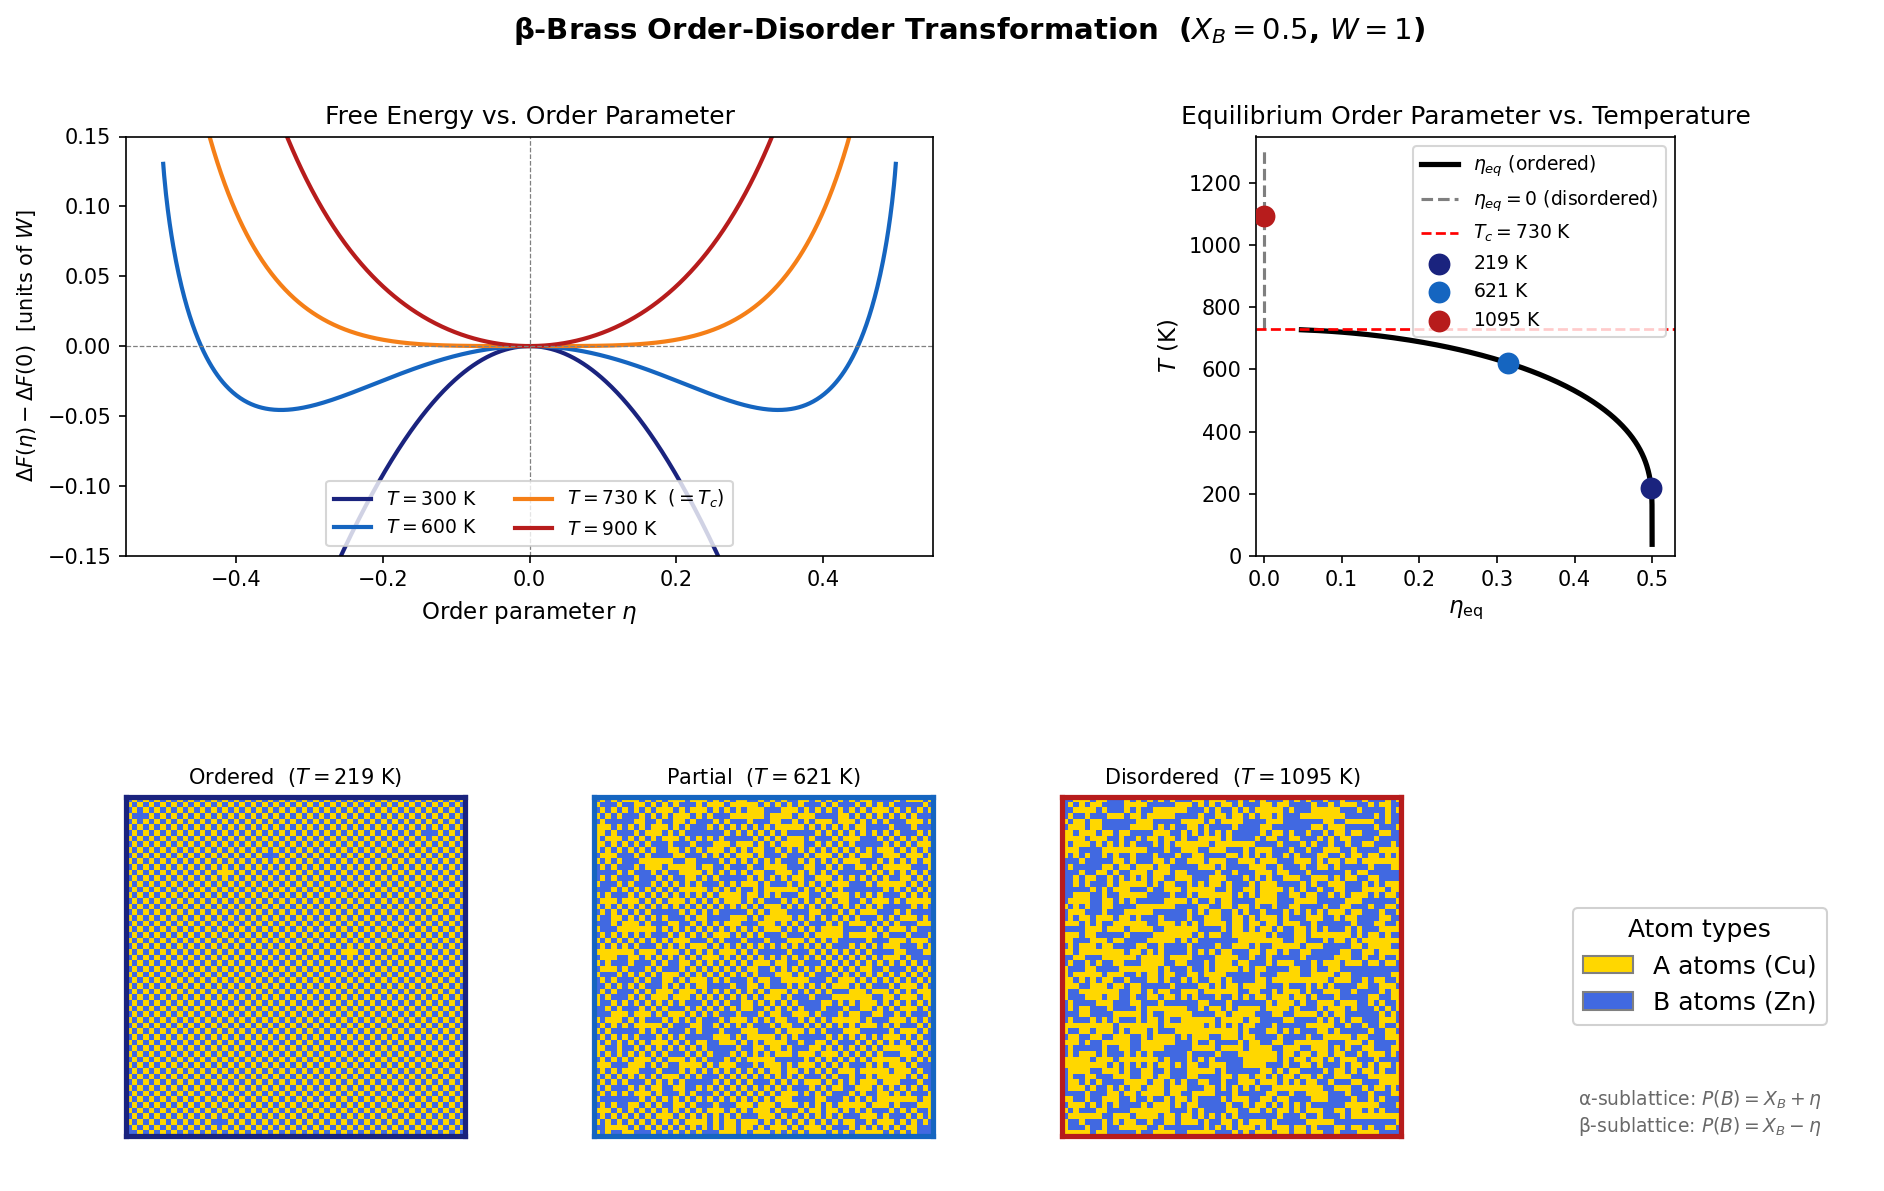
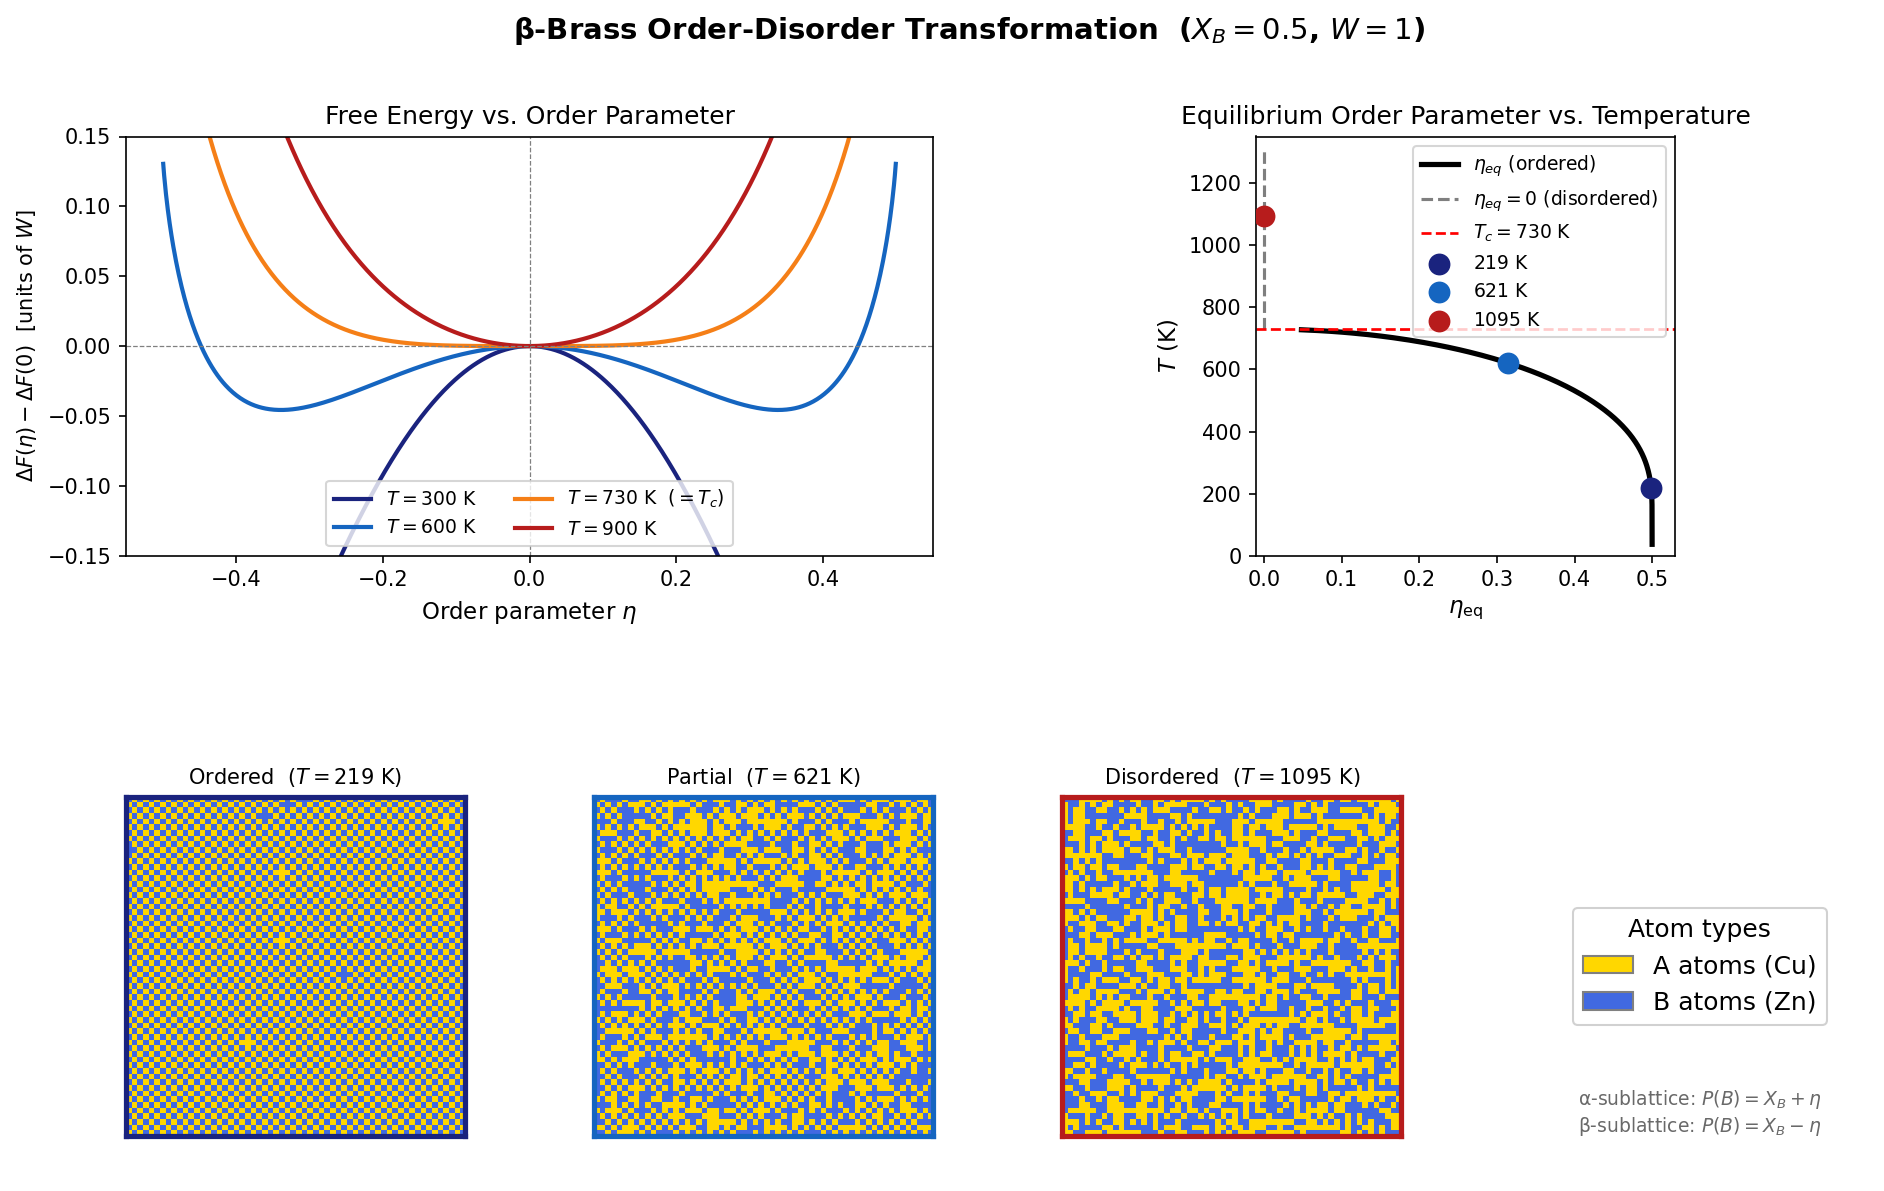
Fix lattice snapshot seeds for reproducible visualizations

Changed region(s): [[0.5541, 0.6524, 0.7389, 0.9631], [0.3079, 0.6524, 0.4926, 0.9631]]

diff --git a/order_disorder.py b/order_disorder.py
@@ -154,7 +154,7 @@ snap_titles = [
 ]
 
 for ax, T_s, title, seed, c in zip(
-    ax_s, T_snaps, snap_titles, [None, None, None], snap_colors
+    ax_s, T_snaps, snap_titles, [5, 12, 26], snap_colors
 ):
     eta_s = eta_equilibrium(T_s)
     lat = make_lattice(eta_s, seed=seed)
